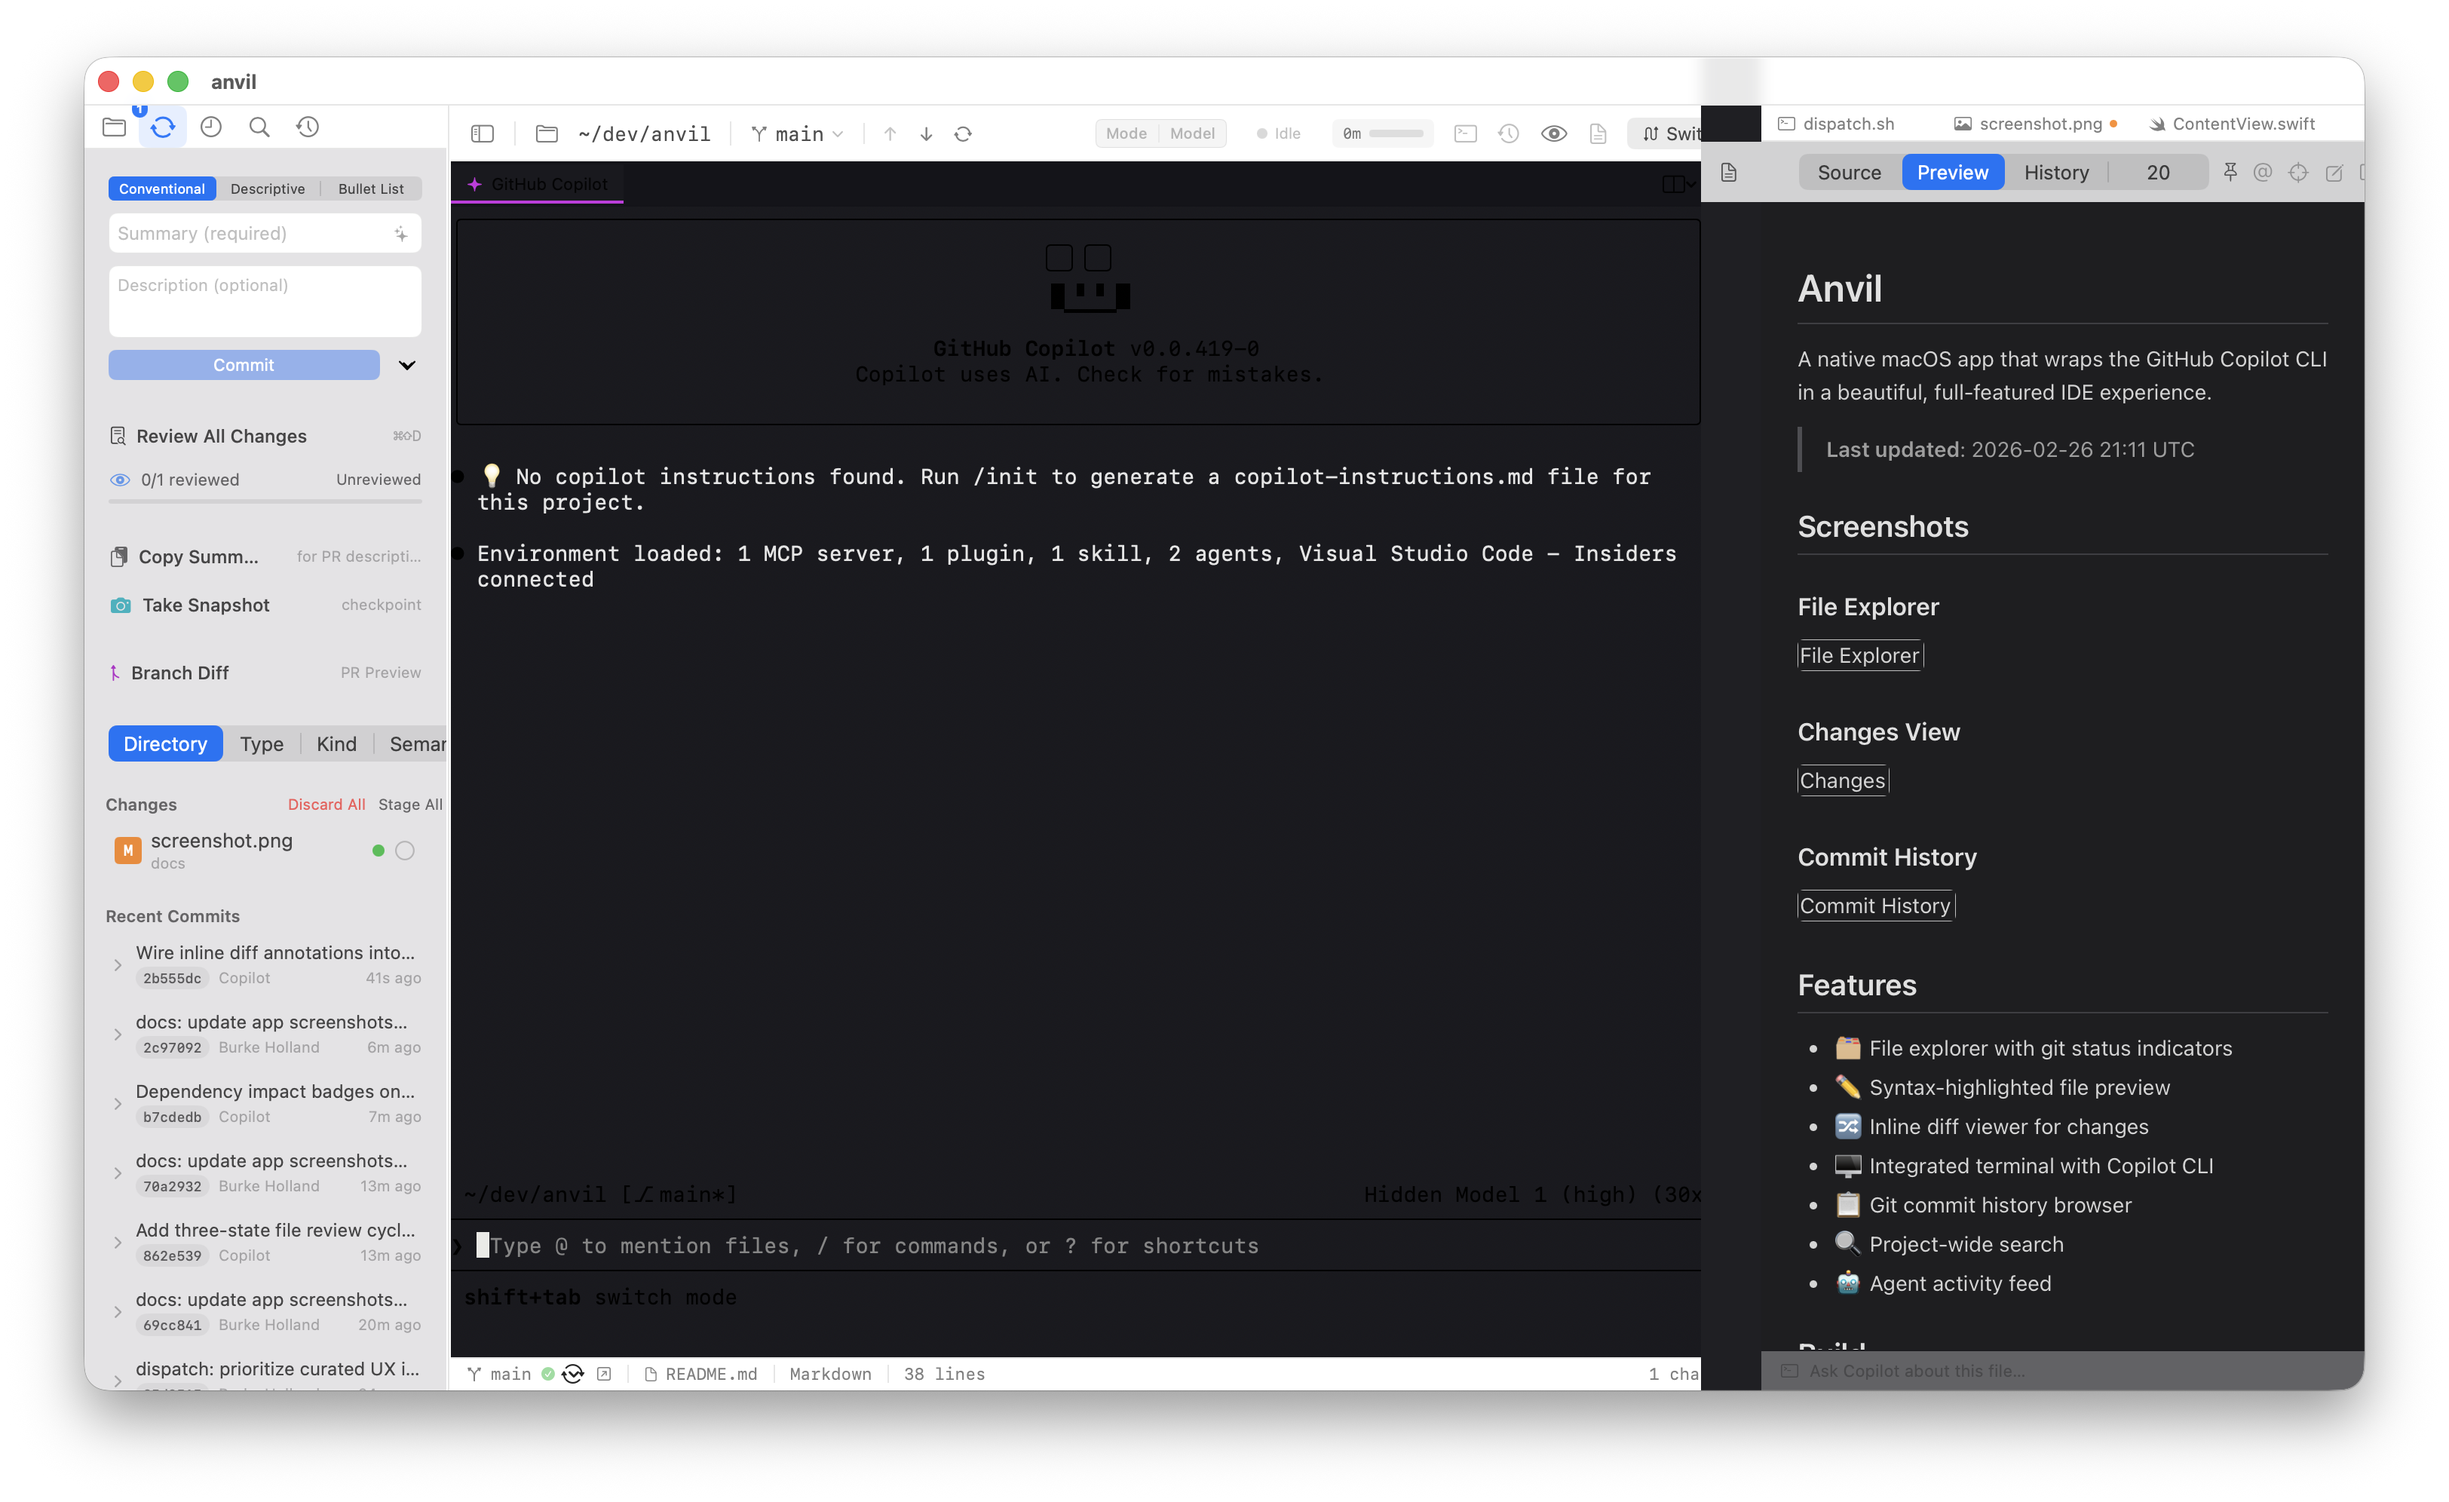
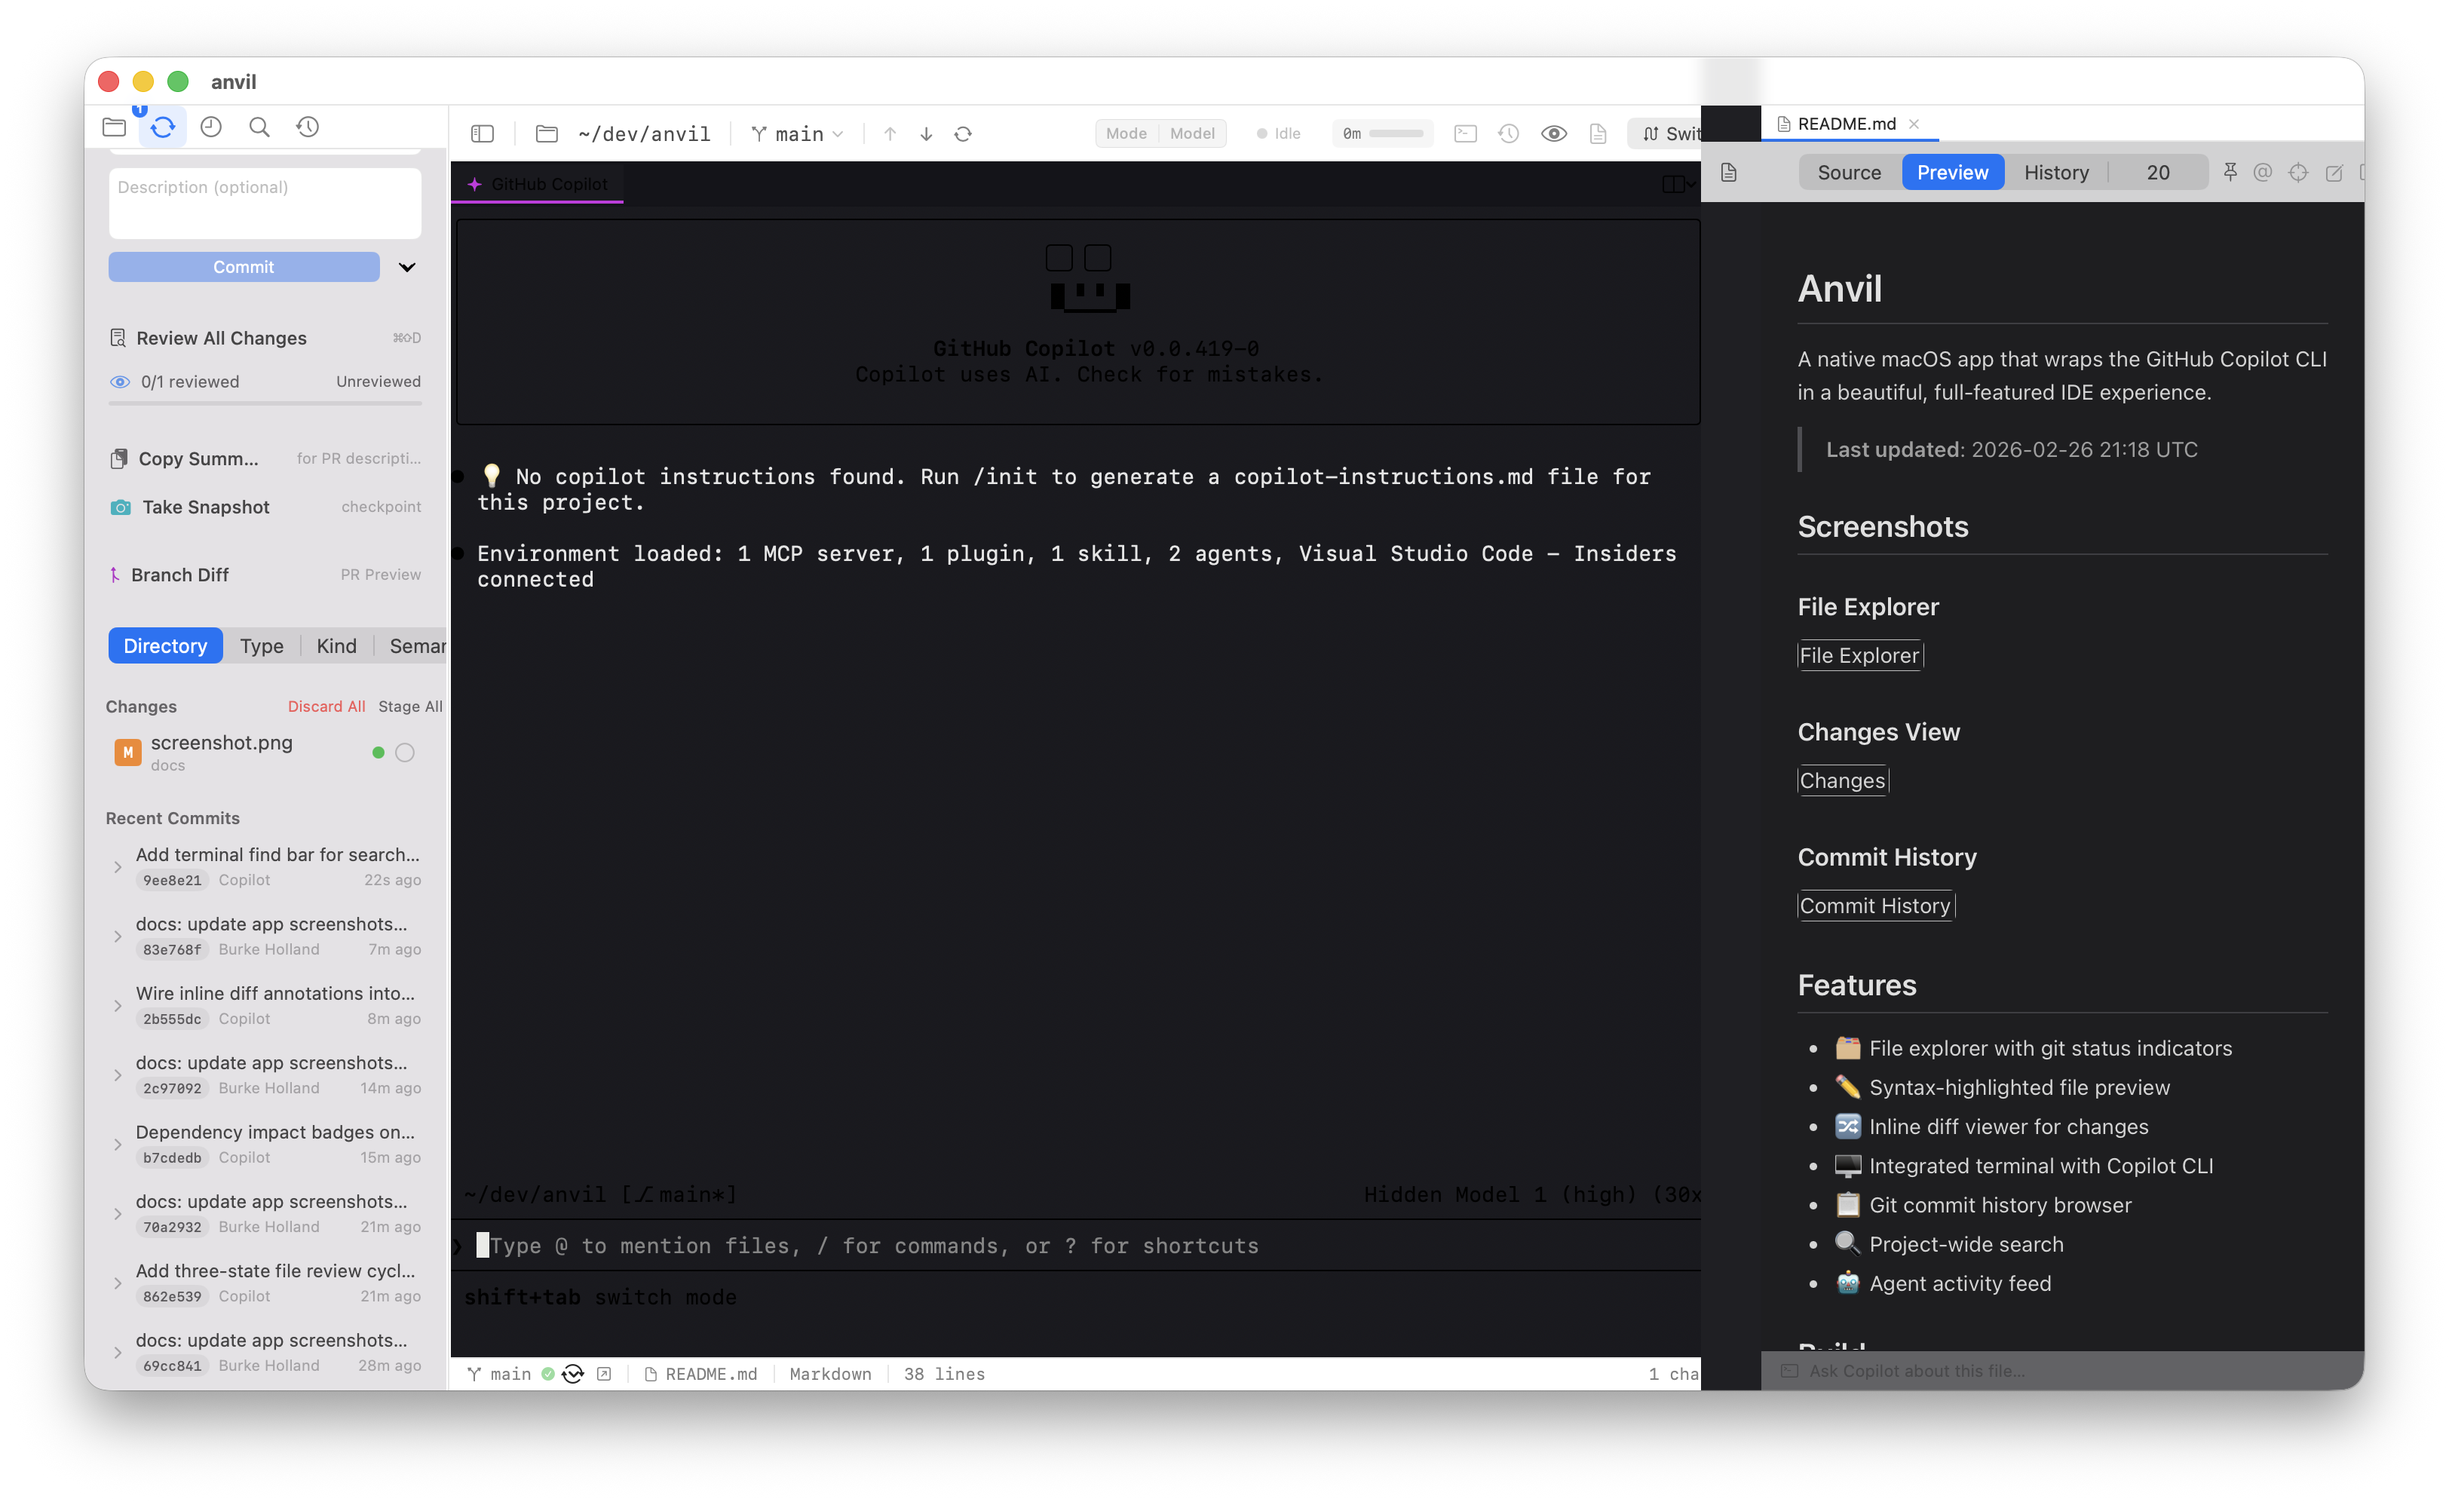
docs: update app screenshots and README (2026-02-26 21:26 UTC)

diff --git a/README.md b/README.md
@@ -2,7 +2,7 @@
 
 A native macOS app that wraps the GitHub Copilot CLI in a beautiful, full-featured IDE experience.
 
-> **Last updated**: 2026-02-26 21:18 UTC
+> **Last updated**: 2026-02-26 21:26 UTC
 
 ## Screenshots
 
